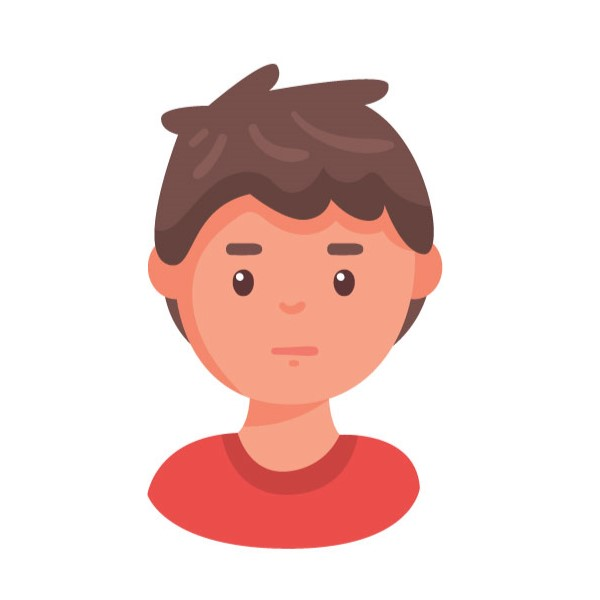
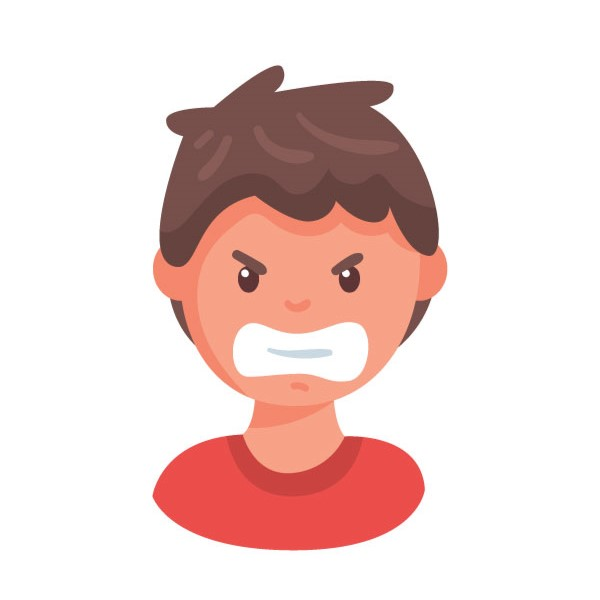
edit emotion images

diff --git a/css/style.css b/css/style.css
@@ -31,3 +31,9 @@
 .card p {
     color: #555;
 }
+
+.emotion-image-card{
+    width: 100%;
+    height: auto;
+    border-radius: 15px 15px 0 0;
+}

diff --git a/dashboard.py b/dashboard.py
@@ -1,3 +1,5 @@
+
+
 import streamlit as st
 
 #######################
@@ -13,9 +15,74 @@ with open('./css/style.css') as f :
 # main method #
 ###############
 def main():
-    st.markdown('<h1 class="page-title">🌊 Jellyfish Classification Dashboard 🪼</h1>', unsafe_allow_html=True)
-    st.write('hello world')
+    st.markdown('<h1 class="page-title">Emotion Classification Dashboard</h1>', unsafe_allow_html=True)
+
     st.markdown('<hr class="custom-divider">', unsafe_allow_html=True)
+    st.markdown(
+        """
+        <div class="card">
+            <h3>Tentang</h3>
+            <p>Dashboard ini dibuat untuk membarikan pengetahuan dan wawasan tentang emosi manusia melalui analisis 
+            gambar. Dengan memanfaatkan teknologi machine learning dalam pengolahan citra gembar, kami akan membantu Anda
+            mengidentifikasi secara akurat, memahami dengan mendalam, dan memberikan saran atas emosi yang anda alami.</p>
+            
+        </div>
+        """,     unsafe_allow_html=True
+    )
+    # happy
+    col1, col2 = st.columns([1, 4])
+
+    with col1:
+        st.image('./images/happy.jpg', caption='Deskripsi Gambar')  # Menampilkan gambar
+
+    with col2:
+        st.write('hello')
+
+    # sad
+    col1, col2 = st.columns([1, 4])
+    with col1:
+
+        st.image('./images/sad.jpg', caption='Deskripsi Gambar')  # Menampilkan gambar
+
+    with col2:
+        st.write('hello')
+
+    # angry
+    col1, col2 = st.columns([1, 4])
+    with col1:
+
+        st.image('./images/neutral.jpg', caption='Deskripsi Gambar')  # Menampilkan gambar
+
+    with col2:
+        st.write('hello')
+
+    # surprised
+    col1, col2 = st.columns([1, 4])
+    with col1:
+
+        st.image('./images/surprised.jpg', caption='Deskripsi Gambar')  # Menampilkan gambar
+
+    with col2:
+        st.write('hello')
+
+    # neutral
+    col1, col2 = st.columns([1, 4])
+    with col1:
+
+        st.image('./images/neutral.jpg', caption='Deskripsi Gambar')  # Menampilkan gambar
+
+    with col2:
+        st.write('hello')
+
+    # ahegao
+    col1, col2 = st.columns([1, 4])
+    with col1:
+
+        st.image('./images/ahegao.jpg', caption='Deskripsi Gambar')  # Menampilkan gambar
+
+    with col2:
+        st.write('hello')
+
 
 #########################
 # menjalankan kode main #
